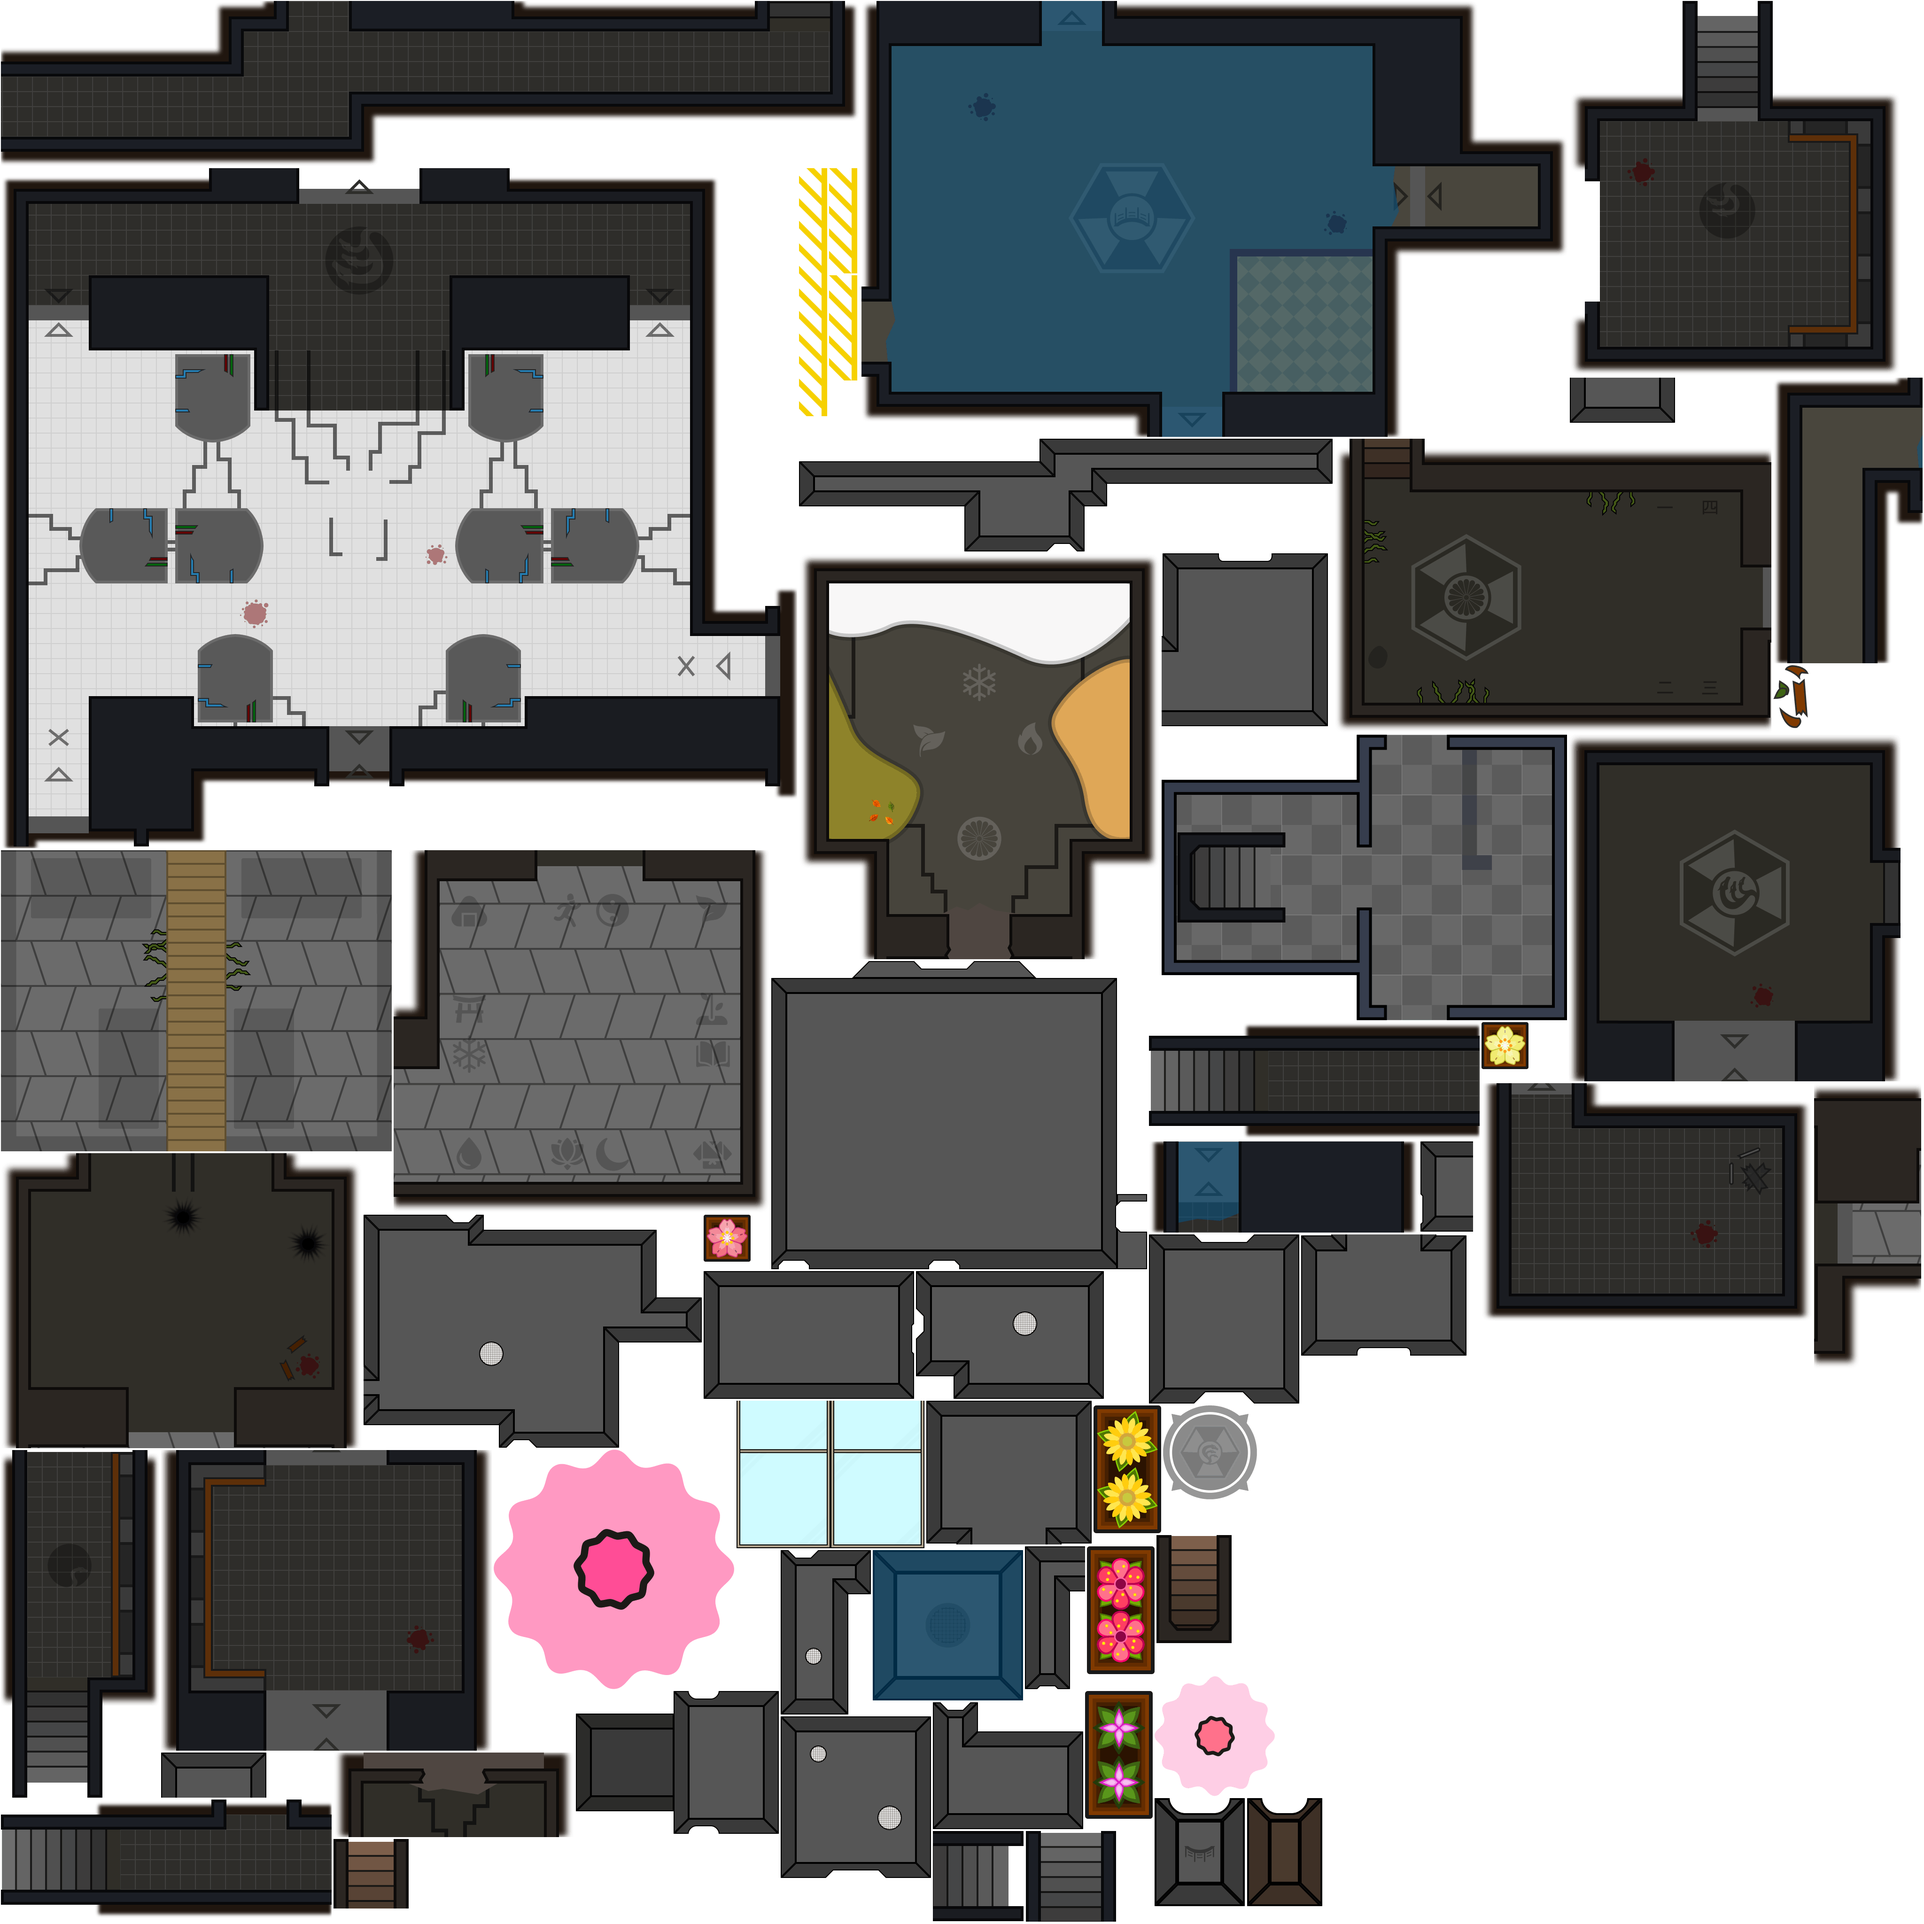
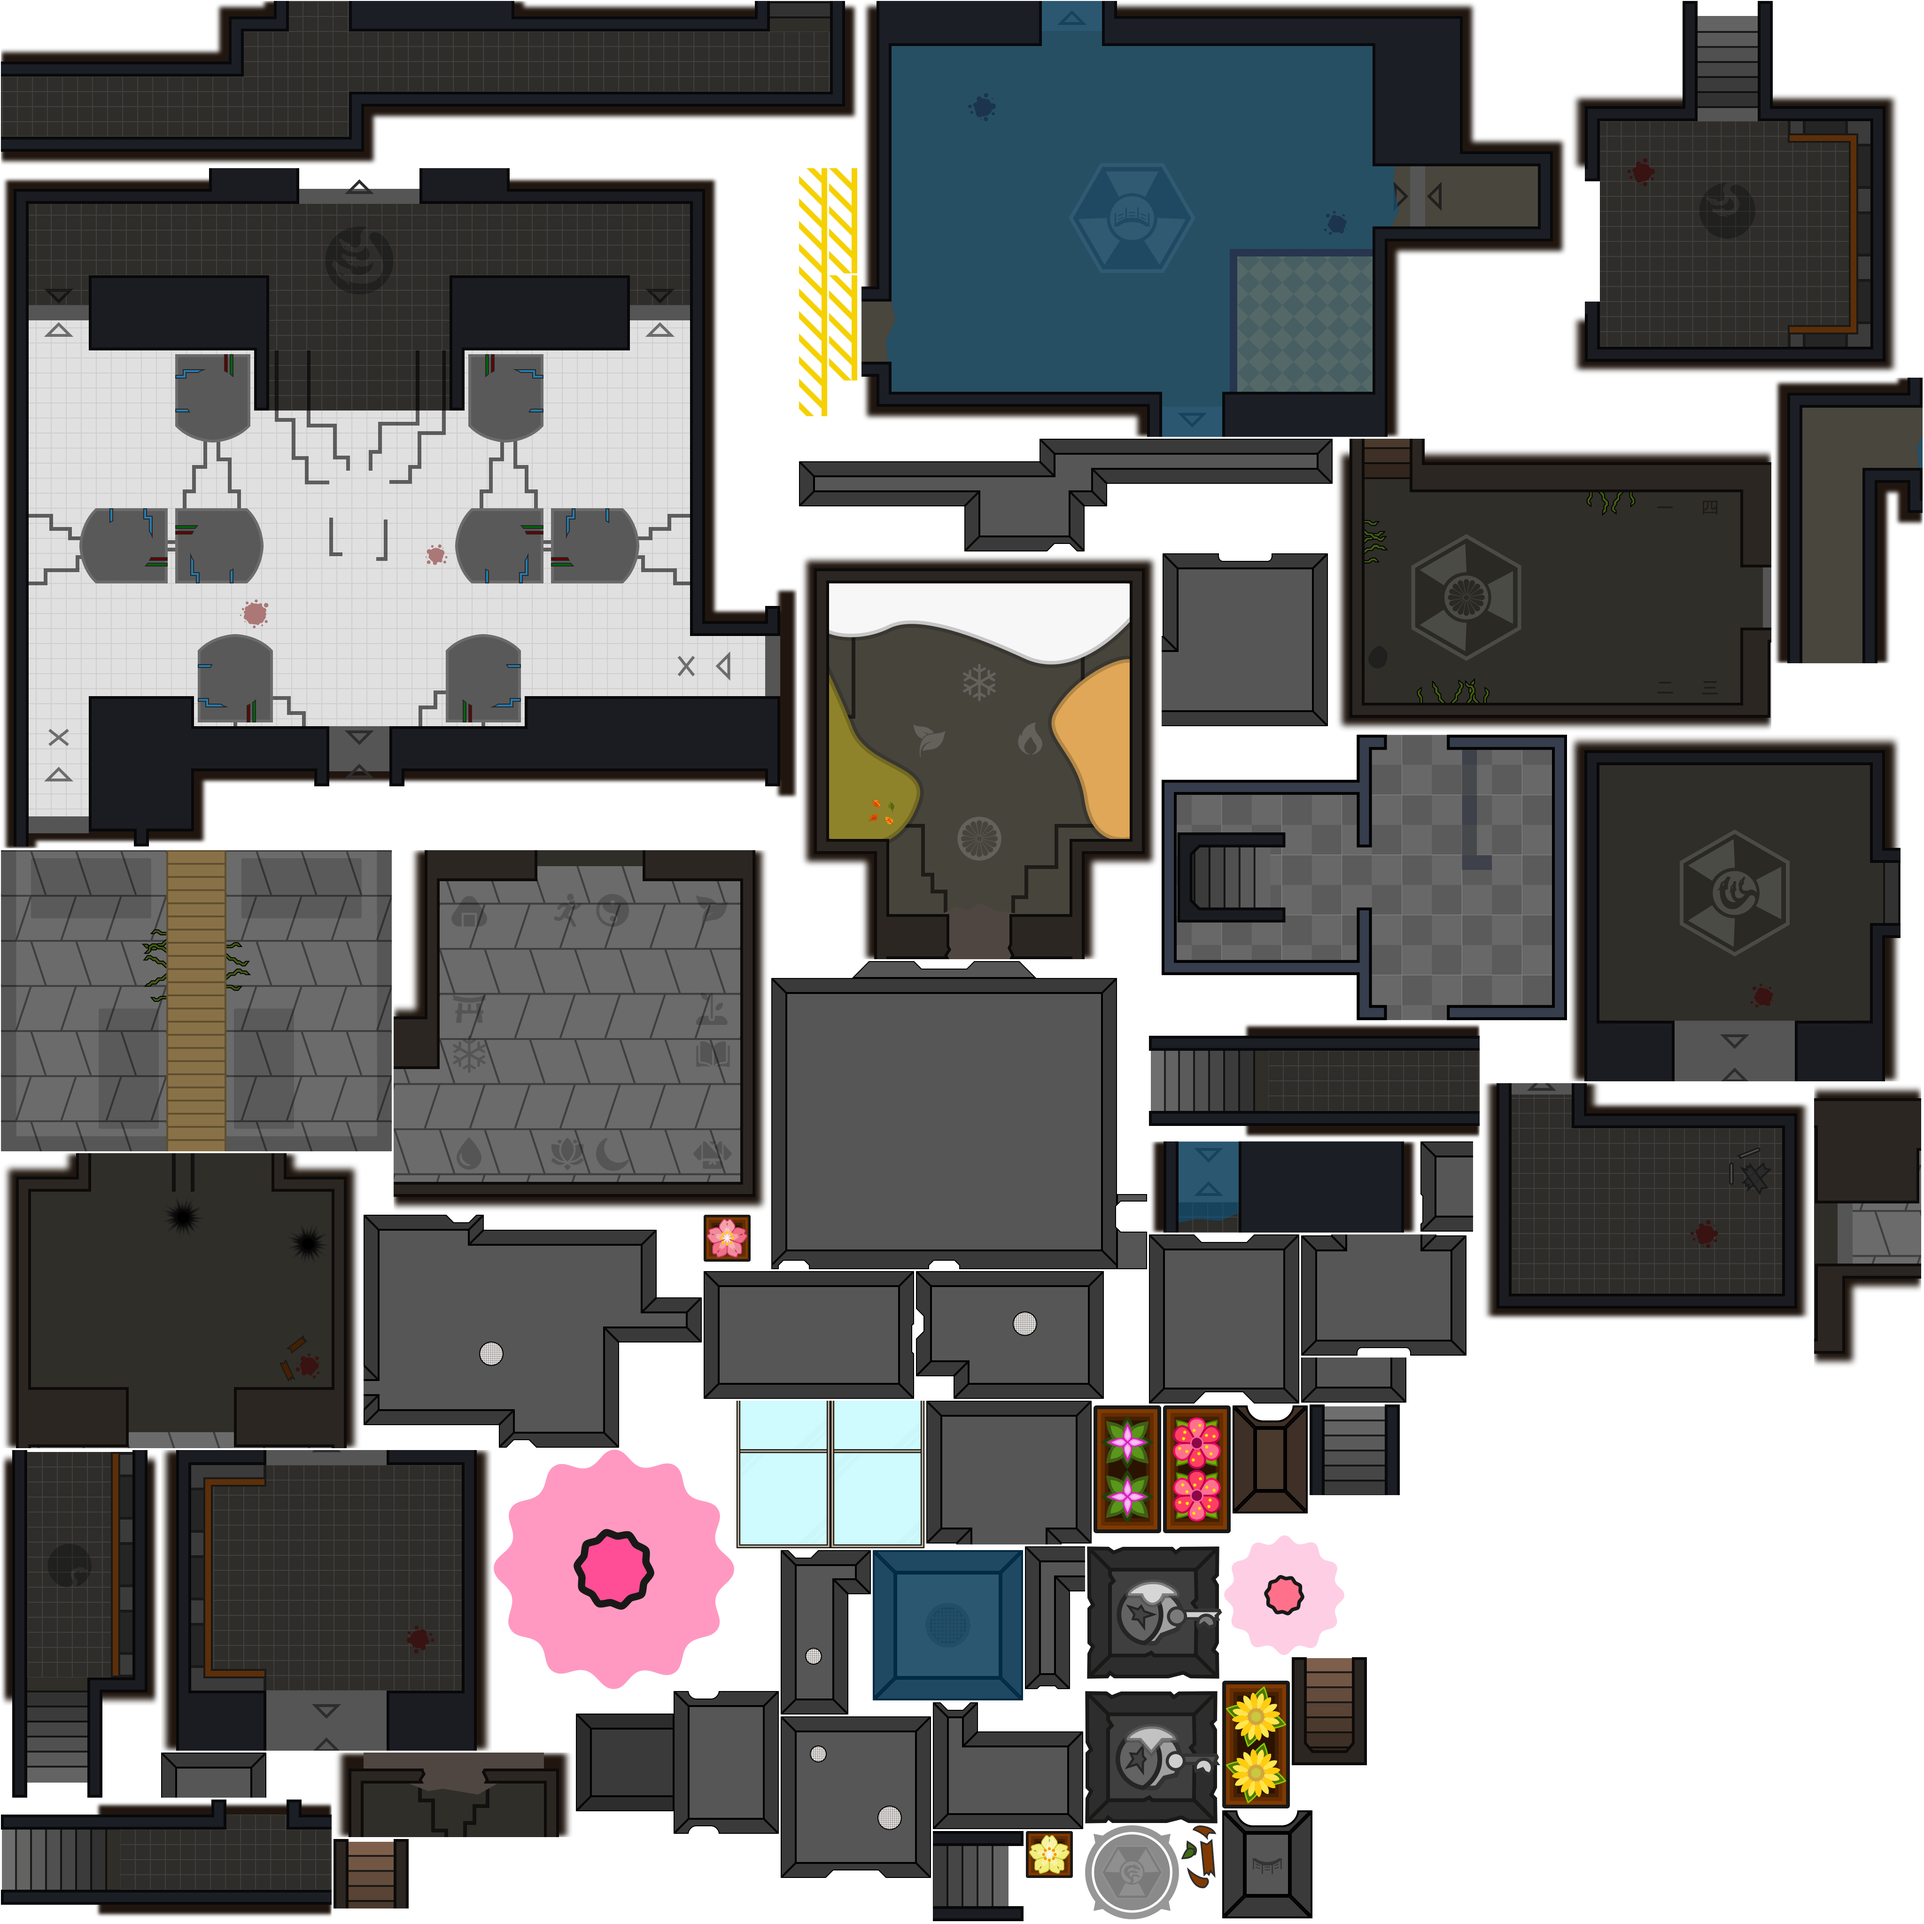
feat: more randomized obstacles

diff --git a/shared/defs/maps/forcedLootDefs.ts b/shared/defs/maps/forcedLootDefs.ts
@@ -43,9 +43,7 @@ const mapDef: PartialMapDef = {
         },
         densitySpawns: [
             {
-                stone_01: 600,
-                barrel_01: 5,
-                silo_01: 3,
+                stone_01: 586,
                 crate_01: 0,
                 crate_02: 0,
                 crate_03: 0,
@@ -112,6 +110,10 @@ const mapDef: PartialMapDef = {
             {
                 spawns: ["warehouse_01", "warehouse_02", "barn_01"],
                 choose: 2,
+            },
+            {
+                spawns: ["statue_03", "statue_03", "statue_04", "statue_04", "silo_01", "silo_01", "silo_01"],
+                choose: 5,
             },
         ],
     },

diff --git a/client/atlas-builder/defs/main.ts b/client/atlas-builder/defs/main.ts
@@ -60,5 +60,7 @@ export const MainAtlas: AtlasDef = {
         "map/map-planter-res-01.svg",
         "map/map-tree-07sp.svg",
         "map/map-tree-08sp.svg",
+        "map/map-statue-03.svg",
+        "map/map-statue-04.svg",
     ],
 };
